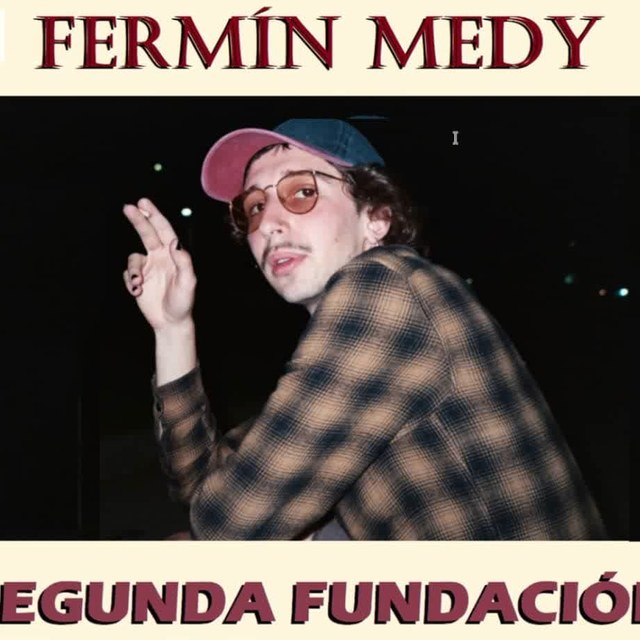
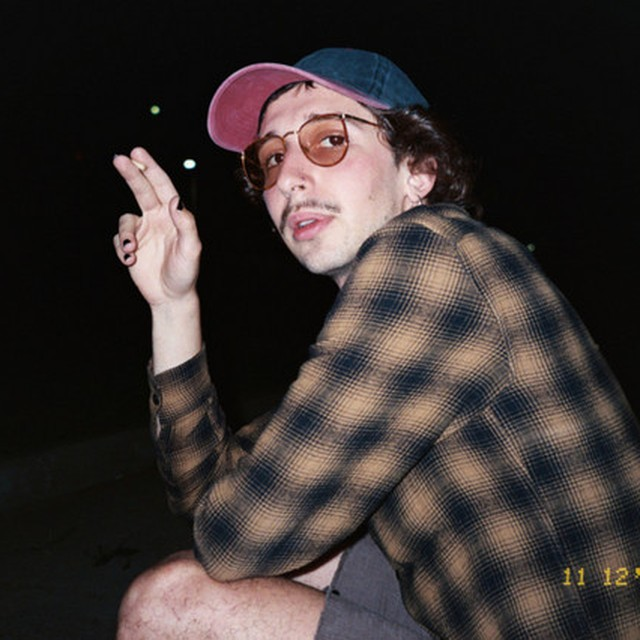
Agregar foto de REGIREXX y reemplazar las de Radio Mercurio y Fermín Medy por las fotos de perfil provistas
23 de 24 artistas ya tienen foto — solo falta Quintacolumna.

diff --git a/assets/artists-data.js b/assets/artists-data.js
@@ -1,1 +1,1 @@
-const ARTISTS = [{"slug":"bruxx","name":"Bruxx","hasPhoto":true,"principal":[{"slug":"bruxx-osadia","title":"Osadía","year":"2022","type":"Single","artistField":"Bruxx","with":[]},{"slug":"bruxx-evaporar","title":"Evaporar","year":"2021","type":"Single","artistField":"Bruxx","with":[]}],"appearsIn":[]},{"slug":"comportamiento","name":"Comportamiento","hasPhoto":true,"principal":[{"slug":"comportamiento-el-momento-mas-largo","title":"El Momento Más Largo","year":"2022","type":"Single","artistField":"Comportamiento","with":[]},{"slug":"comportamiento-ah-basta-de-pensar","title":"¡Ah!...Basta de Pensar","year":"2021","type":"Single","artistField":"Comportamiento","with":[]},{"slug":"comportamiento-recurrencia","title":"Recurrencia","year":"2020","type":"Álbum","artistField":"Comportamiento","with":[]},{"slug":"comportamiento-tras-el-epifragma","title":"Tras el Epifragma","year":"2020","type":"Single","artistField":"Comportamiento","with":[]},{"slug":"comportamiento-comportamiento","title":"Comportamiento","year":"2018","type":"Single","artistField":"Comportamiento","with":[]}],"appearsIn":[{"slug":"lautaro-ra-comportamiento-panchita-la-pistolera-ivan-ariel-s","title":"Surdos","year":"2021","type":"Single","artistField":"Lautaro Rá , Comportamiento , Panchita la Pistolera , Iván Ariel Sierra","with":["Lautaro Rá","Panchita la Pistolera"]}]},{"slug":"desperte-siendo-otro","name":"Desperté Siendo Otro","hasPhoto":true,"principal":[{"slug":"desperte-siendo-otro-el-deseo-en-comun","title":"El Deseo en Común","year":"2023","type":"Single","artistField":"Desperté Siendo Otro","with":[]},{"slug":"desperte-siendo-otro-ambidiestro","title":"Ambidiestro","year":"2018","type":"EP","artistField":"Desperté Siendo Otro","with":[]},{"slug":"desperte-siendo-otro-discusiones-imaginadas","title":"Discusiones Imaginadas","year":"2015","type":"Álbum","artistField":"Desperté Siendo Otro","with":[]}],"appearsIn":[]},{"slug":"earthtwins","name":"Earthtwins","hasPhoto":true,"principal":[{"slug":"earthtwins-speedball","title":"Speedball","year":"2022","type":"Single","artistField":"Earthtwins","with":[]}],"appearsIn":[]},{"slug":"el-ruido-en-el-bosque","name":"El Ruido en el Bosque","hasPhoto":true,"principal":[{"slug":"el-ruido-en-el-bosque-el-resguardo","title":"El Resguardo","year":"2021","type":"EP","artistField":"El Ruido en el Bosque","with":[]}],"appearsIn":[]},{"slug":"embrujo-duo","name":"Embrujo Dúo","hasPhoto":true,"principal":[{"slug":"embrujo-duo-sesion-buenos-aires","title":"Sesión Buenos Aires","year":"2022","type":"Single","artistField":"Embrujo Dúo","with":[]}],"appearsIn":[]},{"slug":"fanaticos-del-atardecer","name":"Fanáticos del Atardecer","hasPhoto":true,"principal":[{"slug":"fanaticos-del-atardecer-el-fin-del-anochecer-de-los-tiempos","title":"El Fin del Anochecer de los Tiempos","year":"2025","type":"Single","artistField":"Fanáticos del Atardecer","with":[]},{"slug":"fanaticos-del-atardecer-illimani","title":"Illimani","year":"2022","type":"Single","artistField":"Fanáticos del Atardecer","with":[]}],"appearsIn":[]},{"slug":"fermin-medy","name":"Fermín Medy","hasPhoto":true,"principal":[{"slug":"fermin-medy-salto-cuantico","title":"Salto Cuántico","year":"2024","type":"Single","artistField":"Fermín Medy","with":[]},{"slug":"fermin-medy-alas","title":"Alas","year":"2024","type":"Single","artistField":"Fermín Medy","with":[]},{"slug":"fermin-medy-videt","title":"Vídet","year":"2021","type":"Álbum","artistField":"Fermín Medy","with":[]},{"slug":"fermin-medy-en-el-imaginario","title":"En el Imaginario","year":"2020","type":"Single","artistField":"Fermín Medy","with":[]},{"slug":"fermin-medy-al-borde-del-volcan","title":"Al Borde del Volcán","year":"2020","type":"Single","artistField":"Fermín Medy","with":[]}],"appearsIn":[]},{"slug":"futuribles","name":"Futuribles","hasPhoto":true,"principal":[{"slug":"futuribles-estoy-foucault","title":"Estoy Foucault","year":"2025","type":"Single","artistField":"Futuribles","with":[]}],"appearsIn":[]},{"slug":"guido-antonucci","name":"Guido Antonucci","hasPhoto":true,"principal":[{"slug":"guido-antonucci-autoficcion","title":"Autoficción","year":"2024","type":"EP","artistField":"Guido Antonucci","with":[]},{"slug":"guido-antonucci-patricio-diaz-how-deep-is-your-love","title":"How Deep Is Your Love","year":"2020","type":"Single","artistField":"Guido Antonucci , Patricio Díaz","with":["Patricio Díaz"]},{"slug":"guido-antonucci-bocco-ariel-nus-tremendu-antigenero","title":"Antigénero","year":"2020","type":"Single","artistField":"Guido Antonucci , Bocco Ariel , Nus Tremendu","with":[]},{"slug":"guido-antonucci-ladrillo-de-cristal","title":"Ladrillo de Cristal","year":"2019","type":"EP","artistField":"Guido Antonucci","with":[]},{"slug":"guido-antonucci-larilium-wild-cat","title":"Wild Cat","year":"2019","type":"Single","artistField":"Guido Antonucci , Larilium","with":[]},{"slug":"guido-antonucci-juampi-diaz-faulty-paradise","title":"Faulty Paradise","year":"2019","type":"Single","artistField":"Guido Antonucci , Juampi Diaz","with":[]}],"appearsIn":[{"slug":"quintacolumna-ignacio-kater-guido-antonucci-la-vuelta-al-cue","title":"La Vuelta al Cuerpo","year":"2024","type":"Single","artistField":"Quintacolumna , Ignacio Kater , Guido Antonucci","with":["Quintacolumna"]},{"slug":"quintacolumna-guido-antonucci-salir-del-cuerpo","title":"Salir del Cuerpo","year":"2024","type":"Single","artistField":"Quintacolumna , Guido Antonucci","with":["Quintacolumna"]}]},{"slug":"jaimes","name":"Jaimes","hasPhoto":true,"principal":[{"slug":"jaimes-no-estan","title":"No Están","year":"2022","type":"Single","artistField":"Jaimes","with":[]},{"slug":"jaimes-movedizo-rey","title":"Movedizo Rey","year":"2020","type":"Single","artistField":"Jaimes","with":[]},{"slug":"jaimes-lejos-de-la-riqueza","title":"Lejos de la Riqueza","year":"2020","type":"Álbum","artistField":"Jaimes","with":[]}],"appearsIn":[]},{"slug":"lam","name":"LAM","hasPhoto":true,"principal":[{"slug":"lam-trepanacion","title":"Trepanación","year":"2018","type":"Single","artistField":"LAM","with":[]},{"slug":"lam-samanasatra","title":"Samanasatra","year":"2017","type":"Single","artistField":"LAM","with":[]}],"appearsIn":[]},{"slug":"la-hora-del-mosquito","name":"La Hora del Mosquito","hasPhoto":true,"principal":[{"slug":"la-hora-del-mosquito-el-sega","title":"El Sega","year":"2025","type":"Single","artistField":"La Hora del Mosquito","with":[]},{"slug":"la-hora-del-mosquito-todo-pasa","title":"Todo Pasa","year":"2025","type":"Single","artistField":"La Hora del Mosquito","with":[]}],"appearsIn":[]},{"slug":"lautaro-ra","name":"Lautaro Rá","hasPhoto":true,"principal":[{"slug":"lautaro-ra-la-saciedad-mata-el-deseo","title":"La Saciedad Mata el Deseo","year":"2025","type":"Single","artistField":"Lautaro Rá","with":[]},{"slug":"lautaro-ra-soles","title":"Soles","year":"2022","type":"Single","artistField":"Lautaro Rá","with":[]},{"slug":"lautaro-ra-comportamiento-panchita-la-pistolera-ivan-ariel-s","title":"Surdos","year":"2021","type":"Single","artistField":"Lautaro Rá , Comportamiento , Panchita la Pistolera , Iván Ariel Sierra","with":["Comportamiento","Panchita la Pistolera"]},{"slug":"lautaro-ra-requiem-for-a-michi","title":"Requiem For a Michi","year":"2021","type":"Single","artistField":"Lautaro Rá","with":[]},{"slug":"lautaro-ra-la-uva","title":"La Uva","year":"2021","type":"Single","artistField":"Lautaro Rá","with":[]},{"slug":"lautaro-ra-mi-amor-es-el-mar","title":"Mi Amor es el Mar","year":"2021","type":"Single","artistField":"Lautaro Rá","with":[]},{"slug":"lautaro-ra-sur","title":"Sur","year":"2020","type":"Single","artistField":"Lautaro Rá","with":[]}],"appearsIn":[{"slug":"ra-lautaro-ra-ramiro-vecchio-historia-de-la-eternidad","title":"Historia de la Eternidad","year":"2021","type":"EP","artistField":"Rá , Lautaro Rá , Ramiro Vecchio","with":["Rá","Ramiro Vecchio"]}]},{"slug":"panchita-la-pistolera","name":"Panchita la Pistolera","hasPhoto":true,"principal":[{"slug":"panchita-la-pistolera-vivo-en-un-galpon","title":"Vivo en un Galpón","year":"2021","type":"Álbum","artistField":"Panchita la Pistolera","with":[]},{"slug":"panchita-la-pistolera-pinito","title":"Pinito","year":"2015","type":"Single","artistField":"Panchita la Pistolera","with":[]},{"slug":"panchita-la-pistolera-trequartista","title":"Trequartista","year":"2014","type":"EP","artistField":"Panchita la Pistolera","with":[]}],"appearsIn":[{"slug":"lautaro-ra-comportamiento-panchita-la-pistolera-ivan-ariel-s","title":"Surdos","year":"2021","type":"Single","artistField":"Lautaro Rá , Comportamiento , Panchita la Pistolera , Iván Ariel Sierra","with":["Lautaro Rá","Comportamiento"]}]},{"slug":"patricio-diaz","name":"Patricio Díaz","hasPhoto":true,"principal":[{"slug":"patricio-diaz-reduccion-de-danos","title":"Reducción de Daños","year":"2021","type":"Single","artistField":"Patricio Díaz","with":[]},{"slug":"patricio-diaz-los-muertos-gozan","title":"Los Muertos Gozan","year":"2021","type":"Single","artistField":"Patricio Díaz","with":[]}],"appearsIn":[{"slug":"guido-antonucci-patricio-diaz-how-deep-is-your-love","title":"How Deep Is Your Love","year":"2020","type":"Single","artistField":"Guido Antonucci , Patricio Díaz","with":["Guido Antonucci"]}]},{"slug":"quintacolumna","name":"Quintacolumna","hasPhoto":false,"principal":[{"slug":"quintacolumna-traer-del-manana","title":"Traer del Mañana","year":"2024","type":"Álbum","artistField":"Quintacolumna","with":[]},{"slug":"quintacolumna-ignacio-kater-guido-antonucci-la-vuelta-al-cue","title":"La Vuelta al Cuerpo","year":"2024","type":"Single","artistField":"Quintacolumna , Ignacio Kater , Guido Antonucci","with":["Guido Antonucci"]},{"slug":"quintacolumna-guido-antonucci-salir-del-cuerpo","title":"Salir del Cuerpo","year":"2024","type":"Single","artistField":"Quintacolumna , Guido Antonucci","with":["Guido Antonucci"]},{"slug":"quintacolumna-quintacolumna","title":"Quintacolumna","year":"2022","type":"EP","artistField":"Quintacolumna","with":[]}],"appearsIn":[]},{"slug":"regirexx","name":"REGIREXX","hasPhoto":false,"principal":[{"slug":"regirexx-vanina-baby-tita-do-u","title":"Do U?","year":"2024","type":"Single","artistField":"REGIREXX , VANINA , BABY TITA","with":[]}],"appearsIn":[]},{"slug":"radio-mercurio","name":"Radio Mercurio","hasPhoto":true,"principal":[{"slug":"radio-mercurio-sintonia-solar","title":"Sintonía Solar","year":"2025","type":"Álbum","artistField":"Radio Mercurio","with":[]},{"slug":"radio-mercurio-crisis","title":"Crisis","year":"2025","type":"Single","artistField":"Radio Mercurio","with":[]},{"slug":"radio-mercurio-vos-y-yo-y-la-musica","title":"Vos y Yo (Y la Música)","year":"2025","type":"Single","artistField":"Radio Mercurio","with":[]}],"appearsIn":[]},{"slug":"ramiro-vecchio","name":"Ramiro Vecchio","hasPhoto":true,"principal":[{"slug":"ramiro-vecchio-tiempo-al-tiempo","title":"Tiempo al Tiempo","year":"2021","type":"Single","artistField":"Ramiro Vecchio","with":[]}],"appearsIn":[{"slug":"ra-lautaro-ra-ramiro-vecchio-historia-de-la-eternidad","title":"Historia de la Eternidad","year":"2021","type":"EP","artistField":"Rá , Lautaro Rá , Ramiro Vecchio","with":["Rá","Lautaro Rá"]}]},{"slug":"ra","name":"Rá","hasPhoto":true,"principal":[{"slug":"ra-lautaro-ra-ramiro-vecchio-historia-de-la-eternidad","title":"Historia de la Eternidad","year":"2021","type":"EP","artistField":"Rá , Lautaro Rá , Ramiro Vecchio","with":["Lautaro Rá","Ramiro Vecchio"]},{"slug":"ra-el-jardinero","title":"El Jardinero","year":"2021","type":"Single","artistField":"Rá","with":[]}],"appearsIn":[]},{"slug":"shigella","name":"Shigella","hasPhoto":true,"principal":[{"slug":"shigella-invernadero","title":"Invernadero","year":"2023","type":"Single","artistField":"Shigella","with":[]}],"appearsIn":[]},{"slug":"tinachown","name":"Tinachown","hasPhoto":true,"principal":[{"slug":"tinachown-estudio-t","title":"Estudio T","year":"2025","type":"EP","artistField":"Tinachown","with":[]}],"appearsIn":[]},{"slug":"tita-angarita","name":"Tita Angarita","hasPhoto":true,"principal":[{"slug":"tita-angarita-isla-desierta","title":"Isla Desierta","year":"2022","type":"Single","artistField":"Tita Angarita","with":[]},{"slug":"tita-angarita-para-elisa","title":"Para Elisa","year":"2022","type":"Single","artistField":"Tita Angarita","with":[]}],"appearsIn":[]}];
+const ARTISTS = [{"slug":"bruxx","name":"Bruxx","hasPhoto":true,"principal":[{"slug":"bruxx-osadia","title":"Osadía","year":"2022","type":"Single","artistField":"Bruxx","with":[]},{"slug":"bruxx-evaporar","title":"Evaporar","year":"2021","type":"Single","artistField":"Bruxx","with":[]}],"appearsIn":[]},{"slug":"comportamiento","name":"Comportamiento","hasPhoto":true,"principal":[{"slug":"comportamiento-el-momento-mas-largo","title":"El Momento Más Largo","year":"2022","type":"Single","artistField":"Comportamiento","with":[]},{"slug":"comportamiento-ah-basta-de-pensar","title":"¡Ah!...Basta de Pensar","year":"2021","type":"Single","artistField":"Comportamiento","with":[]},{"slug":"comportamiento-recurrencia","title":"Recurrencia","year":"2020","type":"Álbum","artistField":"Comportamiento","with":[]},{"slug":"comportamiento-tras-el-epifragma","title":"Tras el Epifragma","year":"2020","type":"Single","artistField":"Comportamiento","with":[]},{"slug":"comportamiento-comportamiento","title":"Comportamiento","year":"2018","type":"Single","artistField":"Comportamiento","with":[]}],"appearsIn":[{"slug":"lautaro-ra-comportamiento-panchita-la-pistolera-ivan-ariel-s","title":"Surdos","year":"2021","type":"Single","artistField":"Lautaro Rá , Comportamiento , Panchita la Pistolera , Iván Ariel Sierra","with":["Lautaro Rá","Panchita la Pistolera"]}]},{"slug":"desperte-siendo-otro","name":"Desperté Siendo Otro","hasPhoto":true,"principal":[{"slug":"desperte-siendo-otro-el-deseo-en-comun","title":"El Deseo en Común","year":"2023","type":"Single","artistField":"Desperté Siendo Otro","with":[]},{"slug":"desperte-siendo-otro-ambidiestro","title":"Ambidiestro","year":"2018","type":"EP","artistField":"Desperté Siendo Otro","with":[]},{"slug":"desperte-siendo-otro-discusiones-imaginadas","title":"Discusiones Imaginadas","year":"2015","type":"Álbum","artistField":"Desperté Siendo Otro","with":[]}],"appearsIn":[]},{"slug":"earthtwins","name":"Earthtwins","hasPhoto":true,"principal":[{"slug":"earthtwins-speedball","title":"Speedball","year":"2022","type":"Single","artistField":"Earthtwins","with":[]}],"appearsIn":[]},{"slug":"el-ruido-en-el-bosque","name":"El Ruido en el Bosque","hasPhoto":true,"principal":[{"slug":"el-ruido-en-el-bosque-el-resguardo","title":"El Resguardo","year":"2021","type":"EP","artistField":"El Ruido en el Bosque","with":[]}],"appearsIn":[]},{"slug":"embrujo-duo","name":"Embrujo Dúo","hasPhoto":true,"principal":[{"slug":"embrujo-duo-sesion-buenos-aires","title":"Sesión Buenos Aires","year":"2022","type":"Single","artistField":"Embrujo Dúo","with":[]}],"appearsIn":[]},{"slug":"fanaticos-del-atardecer","name":"Fanáticos del Atardecer","hasPhoto":true,"principal":[{"slug":"fanaticos-del-atardecer-el-fin-del-anochecer-de-los-tiempos","title":"El Fin del Anochecer de los Tiempos","year":"2025","type":"Single","artistField":"Fanáticos del Atardecer","with":[]},{"slug":"fanaticos-del-atardecer-illimani","title":"Illimani","year":"2022","type":"Single","artistField":"Fanáticos del Atardecer","with":[]}],"appearsIn":[]},{"slug":"fermin-medy","name":"Fermín Medy","hasPhoto":true,"principal":[{"slug":"fermin-medy-salto-cuantico","title":"Salto Cuántico","year":"2024","type":"Single","artistField":"Fermín Medy","with":[]},{"slug":"fermin-medy-alas","title":"Alas","year":"2024","type":"Single","artistField":"Fermín Medy","with":[]},{"slug":"fermin-medy-videt","title":"Vídet","year":"2021","type":"Álbum","artistField":"Fermín Medy","with":[]},{"slug":"fermin-medy-en-el-imaginario","title":"En el Imaginario","year":"2020","type":"Single","artistField":"Fermín Medy","with":[]},{"slug":"fermin-medy-al-borde-del-volcan","title":"Al Borde del Volcán","year":"2020","type":"Single","artistField":"Fermín Medy","with":[]}],"appearsIn":[]},{"slug":"futuribles","name":"Futuribles","hasPhoto":true,"principal":[{"slug":"futuribles-estoy-foucault","title":"Estoy Foucault","year":"2025","type":"Single","artistField":"Futuribles","with":[]}],"appearsIn":[]},{"slug":"guido-antonucci","name":"Guido Antonucci","hasPhoto":true,"principal":[{"slug":"guido-antonucci-autoficcion","title":"Autoficción","year":"2024","type":"EP","artistField":"Guido Antonucci","with":[]},{"slug":"guido-antonucci-patricio-diaz-how-deep-is-your-love","title":"How Deep Is Your Love","year":"2020","type":"Single","artistField":"Guido Antonucci , Patricio Díaz","with":["Patricio Díaz"]},{"slug":"guido-antonucci-bocco-ariel-nus-tremendu-antigenero","title":"Antigénero","year":"2020","type":"Single","artistField":"Guido Antonucci , Bocco Ariel , Nus Tremendu","with":[]},{"slug":"guido-antonucci-ladrillo-de-cristal","title":"Ladrillo de Cristal","year":"2019","type":"EP","artistField":"Guido Antonucci","with":[]},{"slug":"guido-antonucci-larilium-wild-cat","title":"Wild Cat","year":"2019","type":"Single","artistField":"Guido Antonucci , Larilium","with":[]},{"slug":"guido-antonucci-juampi-diaz-faulty-paradise","title":"Faulty Paradise","year":"2019","type":"Single","artistField":"Guido Antonucci , Juampi Diaz","with":[]}],"appearsIn":[{"slug":"quintacolumna-ignacio-kater-guido-antonucci-la-vuelta-al-cue","title":"La Vuelta al Cuerpo","year":"2024","type":"Single","artistField":"Quintacolumna , Ignacio Kater , Guido Antonucci","with":["Quintacolumna"]},{"slug":"quintacolumna-guido-antonucci-salir-del-cuerpo","title":"Salir del Cuerpo","year":"2024","type":"Single","artistField":"Quintacolumna , Guido Antonucci","with":["Quintacolumna"]}]},{"slug":"jaimes","name":"Jaimes","hasPhoto":true,"principal":[{"slug":"jaimes-no-estan","title":"No Están","year":"2022","type":"Single","artistField":"Jaimes","with":[]},{"slug":"jaimes-movedizo-rey","title":"Movedizo Rey","year":"2020","type":"Single","artistField":"Jaimes","with":[]},{"slug":"jaimes-lejos-de-la-riqueza","title":"Lejos de la Riqueza","year":"2020","type":"Álbum","artistField":"Jaimes","with":[]}],"appearsIn":[]},{"slug":"lam","name":"LAM","hasPhoto":true,"principal":[{"slug":"lam-trepanacion","title":"Trepanación","year":"2018","type":"Single","artistField":"LAM","with":[]},{"slug":"lam-samanasatra","title":"Samanasatra","year":"2017","type":"Single","artistField":"LAM","with":[]}],"appearsIn":[]},{"slug":"la-hora-del-mosquito","name":"La Hora del Mosquito","hasPhoto":true,"principal":[{"slug":"la-hora-del-mosquito-el-sega","title":"El Sega","year":"2025","type":"Single","artistField":"La Hora del Mosquito","with":[]},{"slug":"la-hora-del-mosquito-todo-pasa","title":"Todo Pasa","year":"2025","type":"Single","artistField":"La Hora del Mosquito","with":[]}],"appearsIn":[]},{"slug":"lautaro-ra","name":"Lautaro Rá","hasPhoto":true,"principal":[{"slug":"lautaro-ra-la-saciedad-mata-el-deseo","title":"La Saciedad Mata el Deseo","year":"2025","type":"Single","artistField":"Lautaro Rá","with":[]},{"slug":"lautaro-ra-soles","title":"Soles","year":"2022","type":"Single","artistField":"Lautaro Rá","with":[]},{"slug":"lautaro-ra-comportamiento-panchita-la-pistolera-ivan-ariel-s","title":"Surdos","year":"2021","type":"Single","artistField":"Lautaro Rá , Comportamiento , Panchita la Pistolera , Iván Ariel Sierra","with":["Comportamiento","Panchita la Pistolera"]},{"slug":"lautaro-ra-requiem-for-a-michi","title":"Requiem For a Michi","year":"2021","type":"Single","artistField":"Lautaro Rá","with":[]},{"slug":"lautaro-ra-la-uva","title":"La Uva","year":"2021","type":"Single","artistField":"Lautaro Rá","with":[]},{"slug":"lautaro-ra-mi-amor-es-el-mar","title":"Mi Amor es el Mar","year":"2021","type":"Single","artistField":"Lautaro Rá","with":[]},{"slug":"lautaro-ra-sur","title":"Sur","year":"2020","type":"Single","artistField":"Lautaro Rá","with":[]}],"appearsIn":[{"slug":"ra-lautaro-ra-ramiro-vecchio-historia-de-la-eternidad","title":"Historia de la Eternidad","year":"2021","type":"EP","artistField":"Rá , Lautaro Rá , Ramiro Vecchio","with":["Rá","Ramiro Vecchio"]}]},{"slug":"panchita-la-pistolera","name":"Panchita la Pistolera","hasPhoto":true,"principal":[{"slug":"panchita-la-pistolera-vivo-en-un-galpon","title":"Vivo en un Galpón","year":"2021","type":"Álbum","artistField":"Panchita la Pistolera","with":[]},{"slug":"panchita-la-pistolera-pinito","title":"Pinito","year":"2015","type":"Single","artistField":"Panchita la Pistolera","with":[]},{"slug":"panchita-la-pistolera-trequartista","title":"Trequartista","year":"2014","type":"EP","artistField":"Panchita la Pistolera","with":[]}],"appearsIn":[{"slug":"lautaro-ra-comportamiento-panchita-la-pistolera-ivan-ariel-s","title":"Surdos","year":"2021","type":"Single","artistField":"Lautaro Rá , Comportamiento , Panchita la Pistolera , Iván Ariel Sierra","with":["Lautaro Rá","Comportamiento"]}]},{"slug":"patricio-diaz","name":"Patricio Díaz","hasPhoto":true,"principal":[{"slug":"patricio-diaz-reduccion-de-danos","title":"Reducción de Daños","year":"2021","type":"Single","artistField":"Patricio Díaz","with":[]},{"slug":"patricio-diaz-los-muertos-gozan","title":"Los Muertos Gozan","year":"2021","type":"Single","artistField":"Patricio Díaz","with":[]}],"appearsIn":[{"slug":"guido-antonucci-patricio-diaz-how-deep-is-your-love","title":"How Deep Is Your Love","year":"2020","type":"Single","artistField":"Guido Antonucci , Patricio Díaz","with":["Guido Antonucci"]}]},{"slug":"quintacolumna","name":"Quintacolumna","hasPhoto":false,"principal":[{"slug":"quintacolumna-traer-del-manana","title":"Traer del Mañana","year":"2024","type":"Álbum","artistField":"Quintacolumna","with":[]},{"slug":"quintacolumna-ignacio-kater-guido-antonucci-la-vuelta-al-cue","title":"La Vuelta al Cuerpo","year":"2024","type":"Single","artistField":"Quintacolumna , Ignacio Kater , Guido Antonucci","with":["Guido Antonucci"]},{"slug":"quintacolumna-guido-antonucci-salir-del-cuerpo","title":"Salir del Cuerpo","year":"2024","type":"Single","artistField":"Quintacolumna , Guido Antonucci","with":["Guido Antonucci"]},{"slug":"quintacolumna-quintacolumna","title":"Quintacolumna","year":"2022","type":"EP","artistField":"Quintacolumna","with":[]}],"appearsIn":[]},{"slug":"regirexx","name":"REGIREXX","hasPhoto":true,"principal":[{"slug":"regirexx-vanina-baby-tita-do-u","title":"Do U?","year":"2024","type":"Single","artistField":"REGIREXX , VANINA , BABY TITA","with":[]}],"appearsIn":[]},{"slug":"radio-mercurio","name":"Radio Mercurio","hasPhoto":true,"principal":[{"slug":"radio-mercurio-sintonia-solar","title":"Sintonía Solar","year":"2025","type":"Álbum","artistField":"Radio Mercurio","with":[]},{"slug":"radio-mercurio-crisis","title":"Crisis","year":"2025","type":"Single","artistField":"Radio Mercurio","with":[]},{"slug":"radio-mercurio-vos-y-yo-y-la-musica","title":"Vos y Yo (Y la Música)","year":"2025","type":"Single","artistField":"Radio Mercurio","with":[]}],"appearsIn":[]},{"slug":"ramiro-vecchio","name":"Ramiro Vecchio","hasPhoto":true,"principal":[{"slug":"ramiro-vecchio-tiempo-al-tiempo","title":"Tiempo al Tiempo","year":"2021","type":"Single","artistField":"Ramiro Vecchio","with":[]}],"appearsIn":[{"slug":"ra-lautaro-ra-ramiro-vecchio-historia-de-la-eternidad","title":"Historia de la Eternidad","year":"2021","type":"EP","artistField":"Rá , Lautaro Rá , Ramiro Vecchio","with":["Rá","Lautaro Rá"]}]},{"slug":"ra","name":"Rá","hasPhoto":true,"principal":[{"slug":"ra-lautaro-ra-ramiro-vecchio-historia-de-la-eternidad","title":"Historia de la Eternidad","year":"2021","type":"EP","artistField":"Rá , Lautaro Rá , Ramiro Vecchio","with":["Lautaro Rá","Ramiro Vecchio"]},{"slug":"ra-el-jardinero","title":"El Jardinero","year":"2021","type":"Single","artistField":"Rá","with":[]}],"appearsIn":[]},{"slug":"shigella","name":"Shigella","hasPhoto":true,"principal":[{"slug":"shigella-invernadero","title":"Invernadero","year":"2023","type":"Single","artistField":"Shigella","with":[]}],"appearsIn":[]},{"slug":"tinachown","name":"Tinachown","hasPhoto":true,"principal":[{"slug":"tinachown-estudio-t","title":"Estudio T","year":"2025","type":"EP","artistField":"Tinachown","with":[]}],"appearsIn":[]},{"slug":"tita-angarita","name":"Tita Angarita","hasPhoto":true,"principal":[{"slug":"tita-angarita-isla-desierta","title":"Isla Desierta","year":"2022","type":"Single","artistField":"Tita Angarita","with":[]},{"slug":"tita-angarita-para-elisa","title":"Para Elisa","year":"2022","type":"Single","artistField":"Tita Angarita","with":[]}],"appearsIn":[]}];
